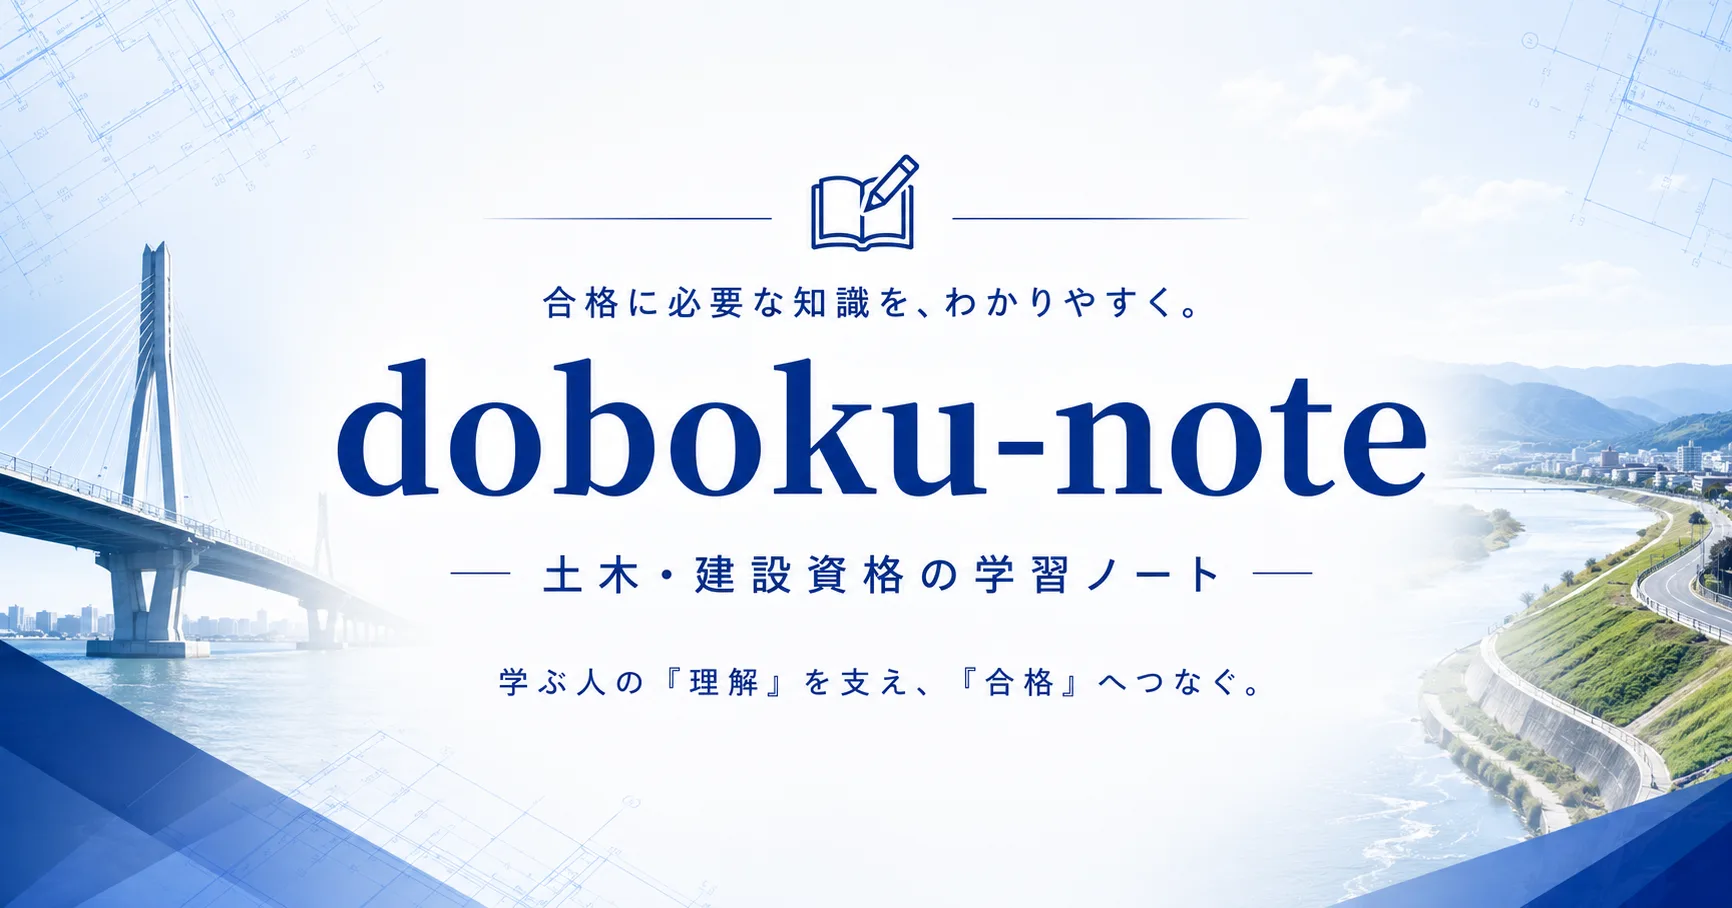
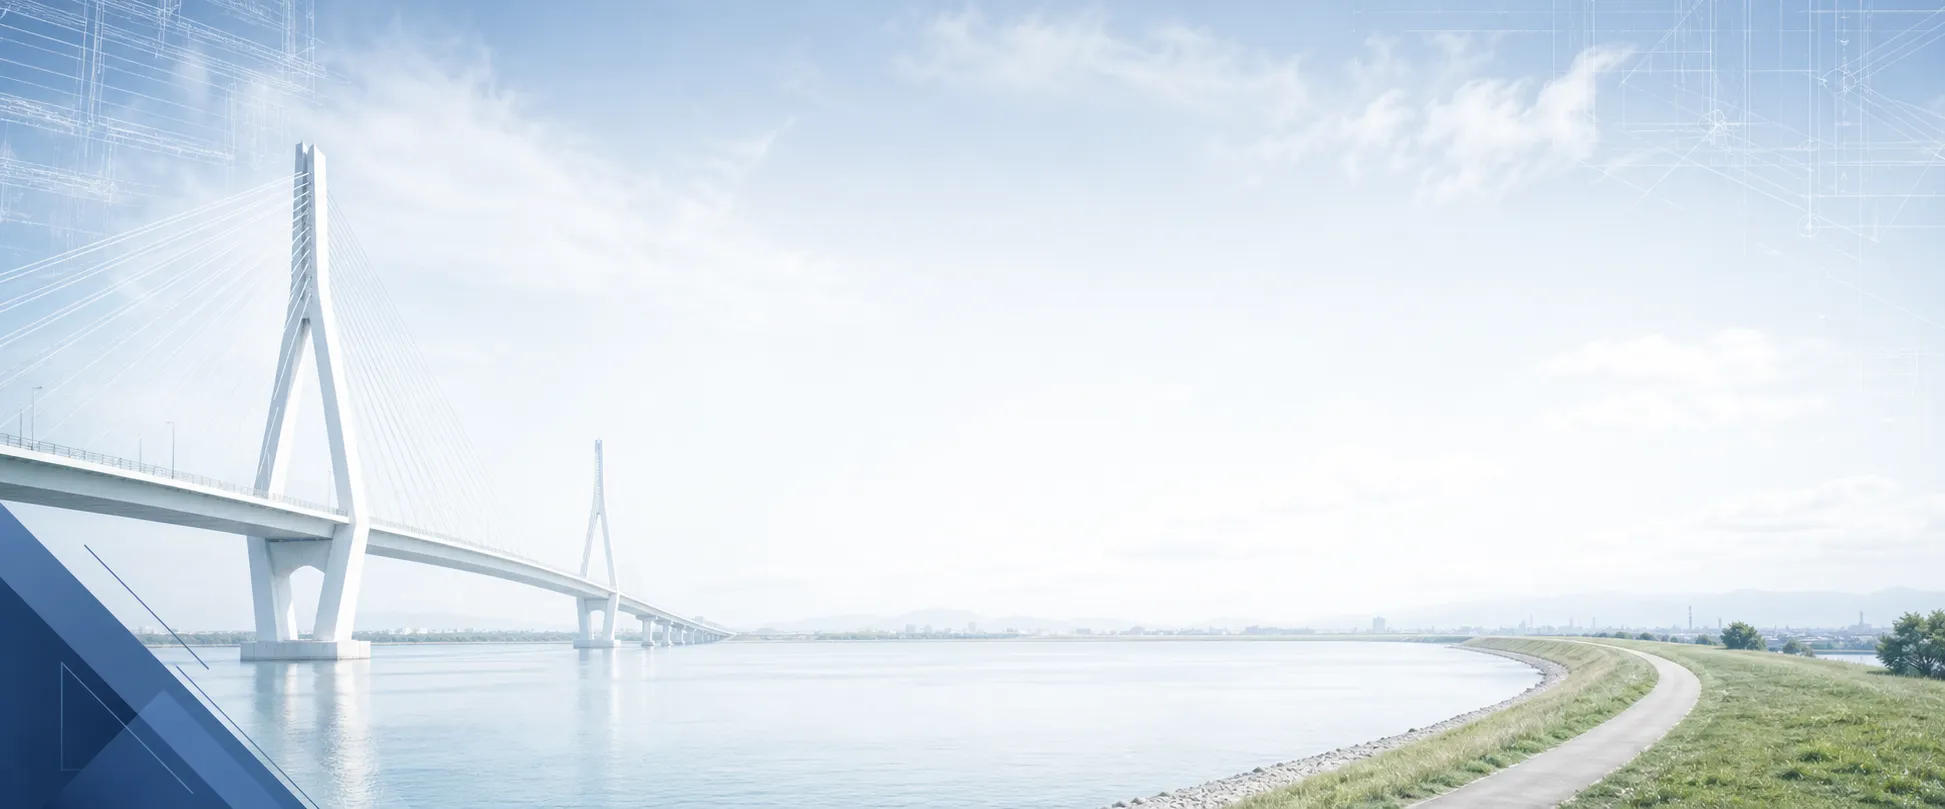
feat(home): Hero を背景写真＋ライブ文字構成へ刷新（2.4:1・文字なし背景）
- 文字焼き込みバナー(1.9:1=OGP比率)→ 文字なし背景写真(1945×809=2.4:1・64K)へ差し替え。
  Codex 生成の斜張橋+河川堤防背景。ヒーロー適正比率でファーストビューを占有しすぎない。
- テキストを HTML でオーバーレイ: 明朝h1(可視=SEO)＋サブコピー＋琥珀CTA。object-cover＋
  レスポンシブ min-h でモバイルも破綻なし。ワードマーク重複も解消。
- 背景は常に明色(テーマ非依存)のため反転する --ink/--accent を避け固定slate＋白ベールで
  両テーマ可読性を担保。CTA は --color-warn 維持。

検証: type-check ✓ / lint-ui exit0 / dev SSR 200 / 1440・390px スクショ目視 ✓

diff --git a/src/components/home/Hero.tsx b/src/components/home/Hero.tsx
@@ -2,27 +2,36 @@ import { ArrowRight } from "lucide-react";
 
 export default function Hero() {
   return (
-    <section className="w-full">
-      {/* 視覚見出しはブランドバナー画像が担う。SEO / スクリーンリーダー用に本文見出しを sr-only で保持する */}
-      <h1 className="sr-only">
-        土木の試験対策を、ひとつに。土木・建設系の実務資格を、合格者が体系化した試験対策サイト。ここだけで合格を目指せます。
-      </h1>
-      {/* 全幅ブリード・枠なし・ヘッダー直下に密着。超ワイド画面ではネイティブ幅(1732)で頭打ち＋--paper でレターボックス（upscale ぼやけ防止） */}
-      <div className="relative w-full flex justify-center bg-[var(--paper)]">
-        <img
-          src="/images/hero-home.webp"
-          width={1732}
-          height={908}
-          alt="doboku-note — 土木・建設資格の学習ノート。合格に必要な知識を、わかりやすく。"
-          loading="eager"
-          fetchPriority="high"
-          decoding="async"
-          className="block w-full max-w-[1732px] h-auto"
-        />
-        {/* CTA を画像下部の余白帯へオーバーレイ（中央・下寄せ）。紺系ヒーローにコントラストが立つ琥珀色＋濃色文字で目立たせる */}
+    // 背景写真は全幅ブリード・ヘッダー直下に密着。テキストは HTML でオーバーレイ（リフロー/SEO/レスポンシブ最適）。
+    <section className="relative w-full min-h-[440px] sm:min-h-[500px] lg:min-h-[580px] overflow-hidden bg-[var(--paper)]">
+      <img
+        src="/images/hero-home.webp"
+        width={1945}
+        height={809}
+        alt="斜張橋と河川堤防の風景 — doboku-note"
+        loading="eager"
+        fetchPriority="high"
+        decoding="async"
+        className="absolute inset-0 h-full w-full object-cover object-center"
+      />
+      {/* 明るい写真の上でダーク文字を読みやすくする淡い白ベール（テーマ非依存＝白固定）。 */}
+      <div
+        aria-hidden="true"
+        className="absolute inset-0 bg-gradient-to-b from-white/55 via-white/10 to-white/35"
+      />
+      {/* テキスト。背景写真は常に明色（テーマ非依存）のため、反転する --ink/--accent ではなく固定 slate で可読性を両テーマ担保。 */}
+      <div className="relative z-10 mx-auto flex min-h-[440px] sm:min-h-[500px] lg:min-h-[580px] max-w-[1280px] flex-col items-center justify-center px-4 sm:px-6 lg:px-10 text-center">
+        <h1 className="font-serif font-black tracking-tight leading-[1.16] text-slate-900 text-[30px] sm:text-[44px] lg:text-[56px] max-w-[20ch] text-balance [text-shadow:0_1px_10px_rgba(255,255,255,0.55)]">
+          土木の試験対策を、ひとつに。
+        </h1>
+        <p className="mt-4 sm:mt-5 text-[14px] sm:text-[17px] leading-[1.9] text-slate-700 max-w-[46ch] [text-shadow:0_1px_8px_rgba(255,255,255,0.6)]">
+          土木・建設系の実務資格を、合格者が体系化した試験対策サイト。
+          <br className="hidden sm:block" />
+          ここだけで合格を目指せます。
+        </p>
         <a
           href="#exams"
-          className="absolute bottom-[7%] sm:bottom-[9%] left-1/2 -translate-x-1/2 inline-flex items-center gap-2.5 font-mono text-[13px] sm:text-[16px] font-bold tracking-wider uppercase text-[var(--ink)] bg-[var(--color-warn)] px-7 sm:px-10 py-3.5 sm:py-5 rounded-full shadow-lift hover:brightness-105 hover:-translate-y-0.5 transition-all"
+          className="mt-7 sm:mt-9 inline-flex items-center gap-2.5 font-mono text-[13px] sm:text-[15px] font-bold tracking-wider uppercase text-slate-900 bg-[var(--color-warn)] px-7 sm:px-9 py-3.5 sm:py-4 rounded-full shadow-lift hover:brightness-105 hover:-translate-y-0.5 transition-all"
         >
           <span>資格を選んで学ぶ</span>
           <ArrowRight className="w-4 h-4 sm:w-5 sm:h-5" strokeWidth={2.5} />
